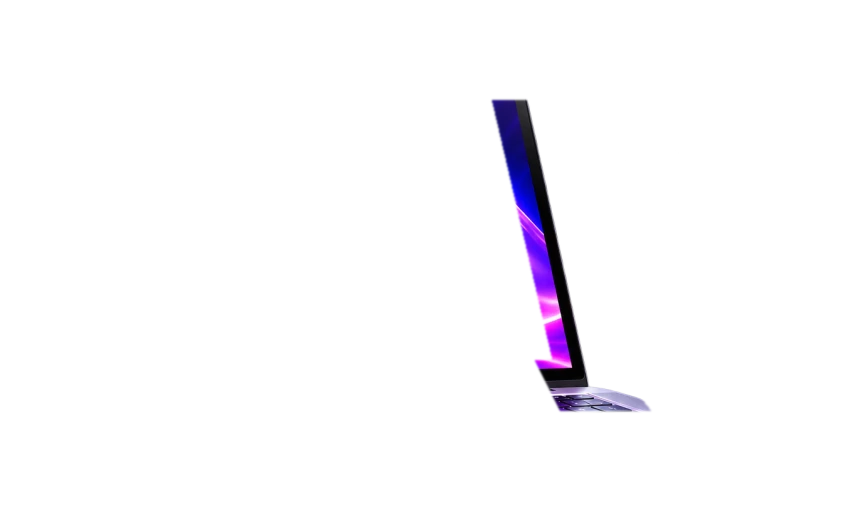
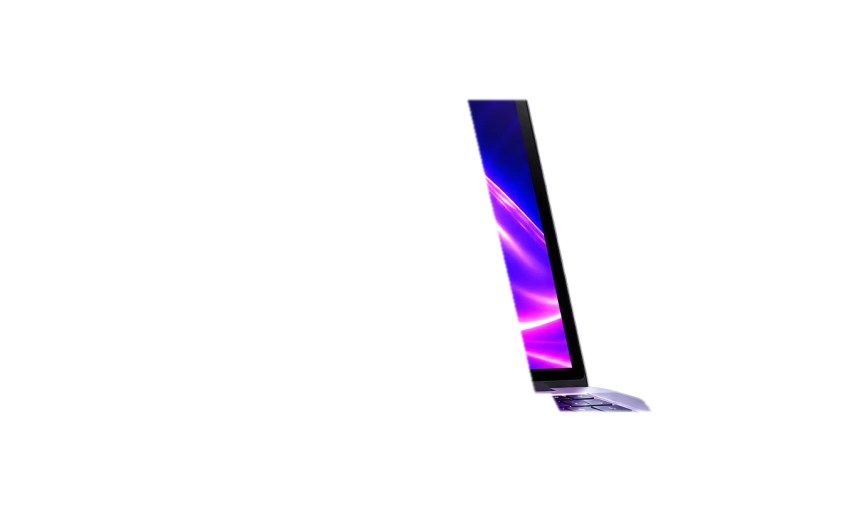
Hero: stage anchored to the laptop at any screen size; remove last bezel line
Claude-Session: https://claude.ai/code/session_01NTP9niN9fkNMbJSChYRcYE

Changed region(s): [[0.5487, 0.1822, 0.6706, 0.759]]

diff --git a/assets/css/style.css b/assets/css/style.css
@@ -1656,3 +1656,18 @@ html.deck-locked { overscroll-behavior: none; }
 
 /* blog cards: the entrance starts before the card scrolls into view, so it never sits low waiting */
 .bcard.is-in { transition: opacity .7s var(--ease), transform .9s var(--ease); }
+
+/* hero composition: the laptop group and the stage are two objects - the stage is anchored so its floor line always sits at the same place under the laptop, at any screen size */
+.hero {
+  --hz: calc(511 * var(--a));                                   /* where the floor line must cross the laptop (px from hero top) */
+  --hh: calc(700 * var(--a));
+  --bgh: max(calc(var(--vw) * 2 / 3), calc((var(--hh) * .92 - var(--hz)) / .21), calc(var(--hz) / .79));
+}
+@media (max-width: 1023.98px) {
+  .hero { --hz: calc(385.5 * var(--n)); --hh: calc(600 * var(--n)); }
+}
+.hero::before {
+  background-size: calc(var(--bgh) * 1.5) auto !important;
+  background-position: 50% calc(var(--hz) - .79 * var(--bgh)) !important;
+  background-color: #050110;
+}
